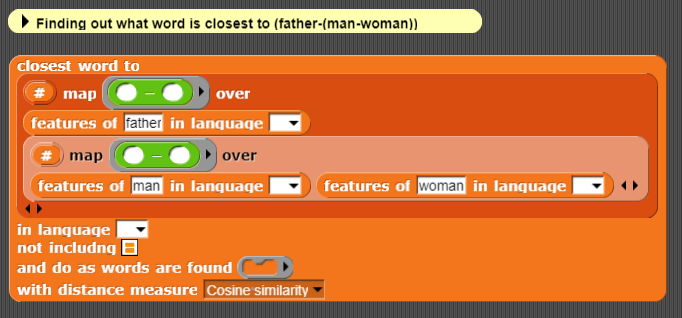
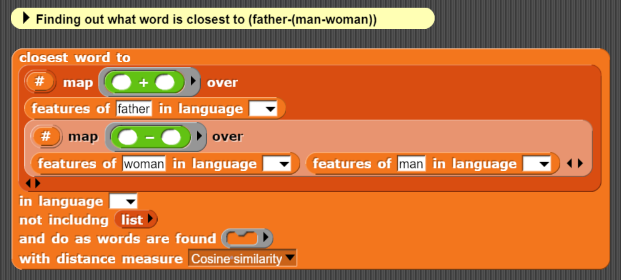
Clearer example of word analogy arithmetic

Changed region(s): [[0.0, 0.1714, 1.0, 0.9714], [0.0, 0.0286, 0.6119, 0.1143], [0.6731, 0.0286, 0.7037, 0.1143]]

diff --git a/AI-Teacher-Guide/chapter-5.html b/AI-Teacher-Guide/chapter-5.html
@@ -129,7 +129,7 @@ And see what word is the closest to somewhere between two words other than the h
 <h4 class="instructions-white">Using word embeddings to solve word analogy problems</h4>
 <p class="instructions">
 One of the most surprising thing about word embeddings is that with the right formula one solve word analogy problems.
-For example "man is to woman as father is to what?" can be expressed as "father-(man-woman)=x".
+For example "man is to woman as father is to what?" can be expressed as "father+(woman-man)=x".
 </p>
 <figure class = "snap-iframe"
         id = "word analogy"
